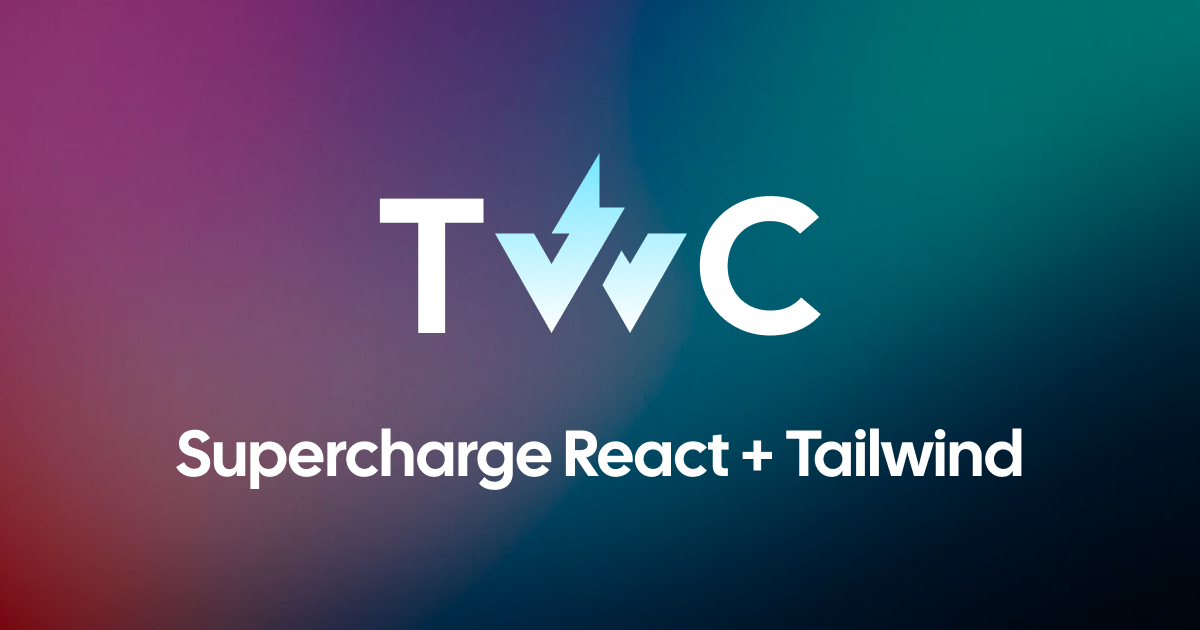
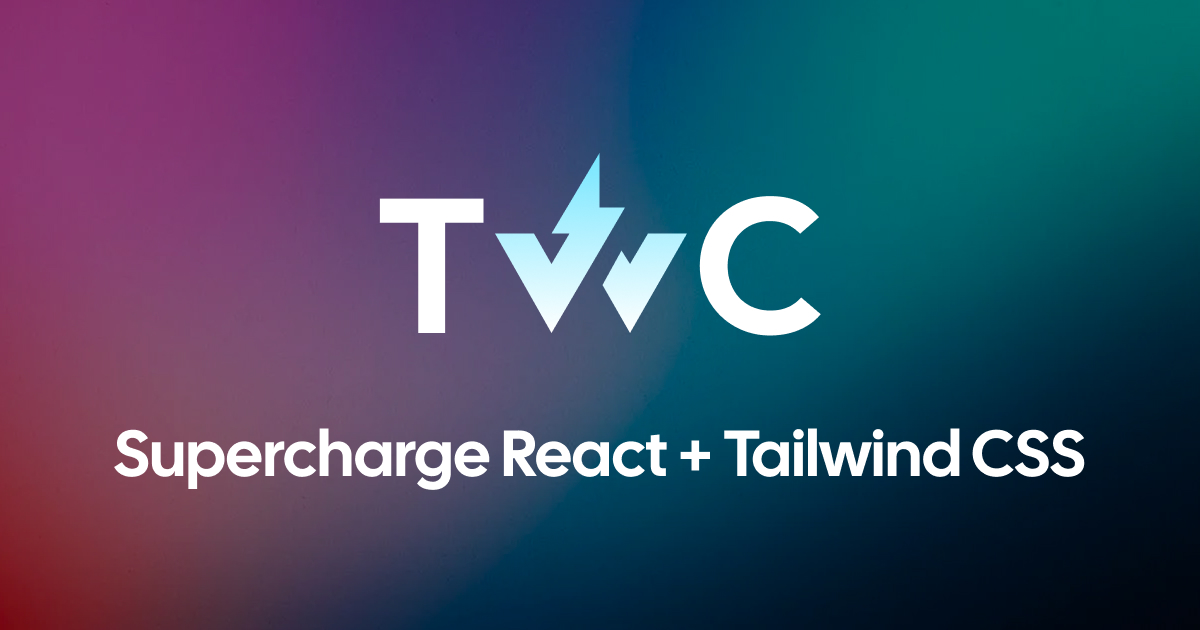
docs: Tailwind -> Tailwind CSS

Changed region(s): [[0.0925, 0.6635, 0.925, 0.7841]]

diff --git a/website/components/Hero.tsx b/website/components/Hero.tsx
@@ -4,11 +4,13 @@ export function Hero() {
   return (
     <div className="text">
       <div className="text-center mt-10 mb-20 max-w-4xl mx-auto text-balance">
-        <h1 className="text-[3rem] leading-none md:text-8xl mb-5 font-semibold font-accent text-transparent bg-clip-text bg-gradient-to-br from-blue-9 to-purple-11">
-          Supercharge React + Tailwind
+        <h1 className="text-[2.3rem] leading-none md:text-7xl mb-5 font-semibold font-accent text-transparent bg-clip-text bg-gradient-to-br from-blue-9 to-purple-11">
+          Supercharge
+          <br />
+          React + Tailwind CSS
         </h1>
         <p className="text-lg md:text-2xl text-low">
-          TWC is a lightweight library to create Tailwind Components in one
+          TWC is a lightweight library to create Tailwind CSS Components in one
           line, write less code and build faster.
         </p>
         <div className="mt-8 flex justify-center gap-4">

diff --git a/website/components/Card.tsx b/website/components/Card.tsx
@@ -3,10 +3,10 @@ export function Card(props: { children: React.ReactNode }) {
     <div className="text">
       <div className="text-center my-10 max-w-4xl mx-auto text-balance">
         <h1 className="text-8xl mb-5 font-semibold font-accent text-transparent bg-clip-text bg-gradient-to-br from-blue-9 to-purple-11">
-          Supercharge React + Tailwind
+          Supercharge React + Tailwind CSS
         </h1>
         <p className="text-2xl text-low">
-          TWC is a lightweight library to create Tailwind Components in one
+          TWC is a lightweight library to create Tailwind CSS Components in one
           line, write less code and build faster.
         </p>
       </div>

diff --git a/website/theme.config.jsx b/website/theme.config.jsx
@@ -120,11 +120,11 @@ export default {
         <meta httpEquiv="Content-Language" content="en" />
         <meta
           name="description"
-          content="Create reusable React Tailwind components."
+          content="Create reusable React Tailwind CSS components."
         />
         <meta
           name="og:description"
-          content="Create reusable React Tailwind components."
+          content="Create reusable React Tailwind CSS components."
         />
         <meta name="twitter:card" content="summary_large_image" />
         <meta name="twitter:image" content={socialCard} />

diff --git a/website/pages/api/og.tsx b/website/pages/api/og.tsx
@@ -95,7 +95,7 @@ export default async function (req) {
             letterSpacing: -1,
           }}
         >
-          Supercharge React + Tailwind
+          Supercharge React + Tailwind CSS
         </p>
         <h1
           style={

diff --git a/README.md b/README.md
@@ -1,8 +1,8 @@
-![TWC — Supercharge React + Tailwind](.github/assets/banner.png "TWC — Supercharge React + Tailwind")
+![TWC — Supercharge React + Tailwind CSS](.github/assets/banner.png "TWC — Supercharge React + Tailwind CSS")
 
 <p align="center">
   <br/>
-  <a href="https://react-twc.vercel.app">TWC</a> creates reusable React + Tailwind components in one line
+  <a href="https://react-twc.vercel.app">TWC</a> creates reusable React + Tailwind CSS components in one line
   <br/><br/>
 </p>
 
